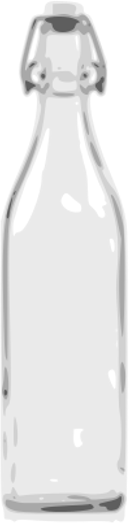
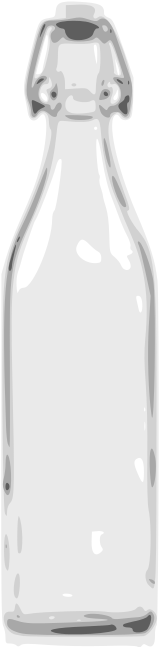
Add UI styling. Add object centering.

diff --git a/index.html b/index.html
@@ -2,44 +2,124 @@
 <html ng-app="app" ng-controller="MainController">
 <head lang="en">
     <meta charset="UTF-8">
+    <meta http-equiv="X-UA-Compatible" content="IE=edge">
+    <meta name="viewport" content="width=device-width, initial-scale=1">
+
     <title>Bottle builder</title>
     <script src="bower_components/fabric.js/dist/fabric.min.js"></script>
     <script src="bower_components/angular/angular.min.js"></script>
     <script src="bower_components/ngjs-color-picker/js/ngjs-color-picker.js"></script>
     <link href="bower_components/ngjs-color-picker/css/ngjs-color-picker.css" rel="stylesheet">
 
+    <!-- Bootstrap -->
+    <link href="bower_components/bootstrap/dist/css/bootstrap.min.css" rel="stylesheet">
+
+    <!-- HTML5 shim and Respond.js for IE8 support of HTML5 elements and media queries -->
+    <!-- WARNING: Respond.js doesn't work if you view the page via file:// -->
+    <!--[if lt IE 9]>
+    <script src="https://oss.maxcdn.com/html5shiv/3.7.2/html5shiv.min.js"></script>
+    <script src="https://oss.maxcdn.com/respond/1.4.2/respond.min.js"></script>
+    <![endif]-->
+
     <script src="js/app.js"></script>
     <link href="css/app.css" rel="stylesheet"/>
 </head>
 <body>
-    <div class="content_wrapper">
-        <canvas id="bottle_canvas"></canvas>
+
+<div class="container">
+    <nav class="navbar navbar-default">
+        <div class="container-fluid">
+            <div class="navbar-header">
+                <button type="button" class="navbar-toggle collapsed" data-toggle="collapse" data-target="#navbar" aria-expanded="false" aria-controls="navbar">
+                    <span class="sr-only">Toggle navigation</span>
+                    <span class="icon-bar"></span>
+                    <span class="icon-bar"></span>
+                    <span class="icon-bar"></span>
+                </button>
+                <a class="navbar-brand" href="#">Bottle designer</a>
+            </div>
+            <div id="navbar" class="navbar-collapse collapse">
+                <ul class="nav navbar-nav">
+                    <li class="active"><a href="#">Home</a></li>
+                </ul>
+            </div>
+        </div>
+    </nav>
+
+    <div class="row">
+        <div class="col-md-3">
+            <div class="panel panel-default">
+                <div class="panel-heading">
+                    <h3 class="panel-title">Colors</h3>
+                </div>
+                <div class="panel-body color_pallet">
+                    <ngjs-color-picker selected="labelBackground"></ngjs-color-picker>
+                </div>
+            </div>
+
+            <div class="panel panel-default">
+                <div class="panel-heading">
+                    <h3 class="panel-title">Actions</h3>
+                </div>
+                <div class="panel-body object_actions">
+                    <div class="btn-toolbar" role="toolbar">
+                        <div class="btn-group" role="group">
+                            <button type="button" class="btn btn-default" ng-click="addText()">Add text</button>
+                        </div>
+                        <div class="btn-group" role="group">
+                            <button class="btn btn-default"
+                                    ng-disabled="!hasObjectOrGroupSelected()"
+                                    ng-click="deleteSelectedObject()">
+                                Delete
+                            </button>
+                            <button class="btn btn-default"
+                                    ng-disabled="!hasObjectOrGroupSelected()"
+                                    ng-click="centerSelected()">
+                                Center
+                            </button>
+                        </div>
+                    </div>
+                </div>
+            </div>
+
+            <div class="panel panel-default">
+                <div class="panel-heading">
+                    <h3 class="panel-title">Text</h3>
+                </div>
+                <div class="panel-body text_content">
+                    <div class="input-group">
+                        <input type="text" class="form-control" placeholder="Text"
+                               ng-disabled="!hasTextObjectSelected()"
+                               ng-model="selectedTextContent">
+                      <span class="input-group-btn">
+                        <button class="btn btn-default" type="button"
+                                ng-disabled="!hasTextObjectSelected()"
+                                ng-click="updateTextContent(selectedTextContent)">
+                            Update
+                        </button>
+                      </span>
+                    </div>
+                </div>
+            </div>
+
+        </div>
+        <div class="col-md-6">
+            <div class="content_wrapper">
+                <img src="img/bottle.png">
+                <canvas id="bottle_canvas"></canvas>
+            </div>
+        </div>
+        <div class="col-md-3">
+            <div class="panel panel-default">
+                <div class="panel-heading">
+                    <h3 class="panel-title">Images</h3>
+                </div>
+                <div class="panel-body">
+                    <img class="panel" ng-src="{{image}}" ng-repeat="image in images" ng-click="addImage(image)"/>
+                </div>
+            </div>
+        </div>
     </div>
-    <hr/>
-    <div ng-repeat="image in images" ng-click="addImage(image)">
-        <img class="panel" ng-src="{{image}}"/>
-    </div>
-    <hr/>
-    <div class="color_pallet">
-        <ngjs-color-picker selected="labelBackground"></ngjs-color-picker>
-    </div>
-    <hr/>
-    <div class="object_actions" ng-show="hasObjectOrGroupSelected()">
-        <button ng-click="deleteSelectedObject()">
-            Delete selected
-        </button>
-    </div>
-    <hr/>
-    <button ng-click="addText()">
-        Add text
-    </button>
-    <hr/>
-    <div class="text_content" ng-show="hasTextObjectSelected()">
-        <input type="text" ng-model="selectedTextContent"/>
-        <button ng-click="updateTextContent(selectedTextContent)">
-            Update text
-        </button>
-    </div>
-    <hr/>
+</div>
 </body>
 </html>

diff --git a/js/app.js b/js/app.js
@@ -33,6 +33,12 @@ angular.module('app', ['ngjsColorPicker'])
             }
         };
 
+        $scope.centerSelected = function() {
+            var activeObject = $scope.canvas.getActiveObject();
+            $scope.canvas.centerObject(activeObject);
+            $scope.canvas.renderAll();
+        };
+
         $scope.hasObjectOrGroupSelected = function() {
             var activeObject = $scope.canvas.getActiveObject(),
                 activeGroup = $scope.canvas.getActiveGroup();
@@ -70,9 +76,9 @@ angular.module('app', ['ngjsColorPicker'])
                 editableAreas: [
                     {
                         "name": "labelPanel",
-                        top: 260,
-                        left: 5,
-                        canvas: {height: 200, width: 115}
+                        top: -300,
+                        left: 3,
+                        canvas: {height: 240, width: 152}
                     }
                 ]
             };
@@ -118,6 +124,9 @@ angular.module('app', ['ngjsColorPicker'])
              var height_ratio = $scope.canvas.height / img.height;
 
              var minRatio = Math.min(width_ratio, height_ratio);
+
+            //make it 10% smaller
+            minRatio = minRatio * 0.9;
 
              return {
                  scaleX: minRatio,

diff --git a/css/app.css b/css/app.css
@@ -1,7 +1,5 @@
 .content_wrapper {
-    background-image: url("../img/bottle.png");
-    background-repeat: no-repeat;
-    height: 523px;
+    height: 647px;
 }
 
 img.panel {
